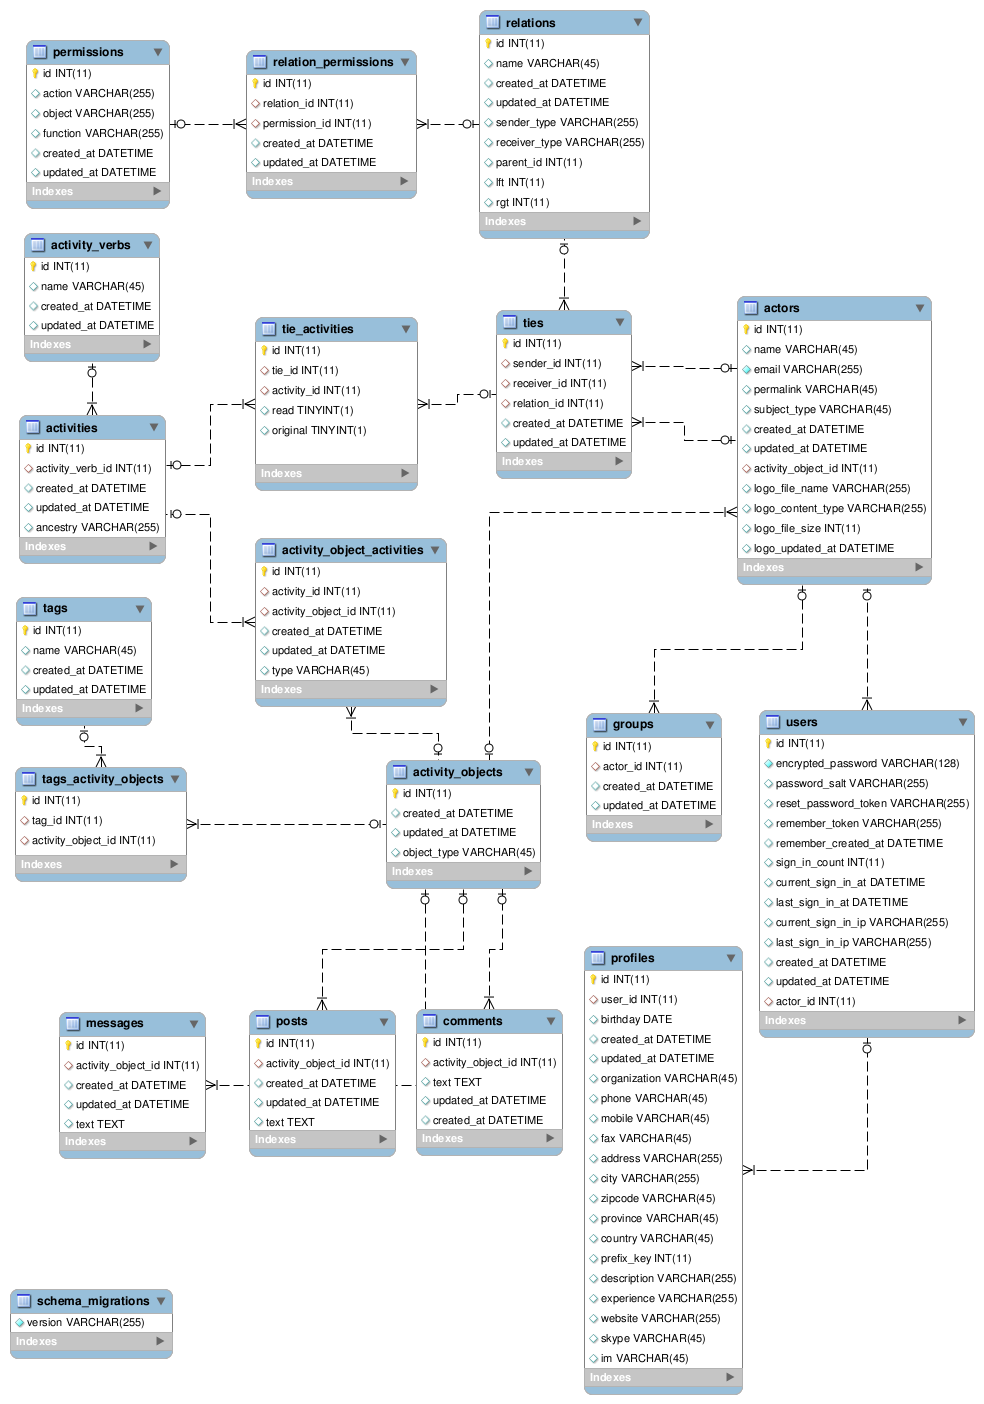
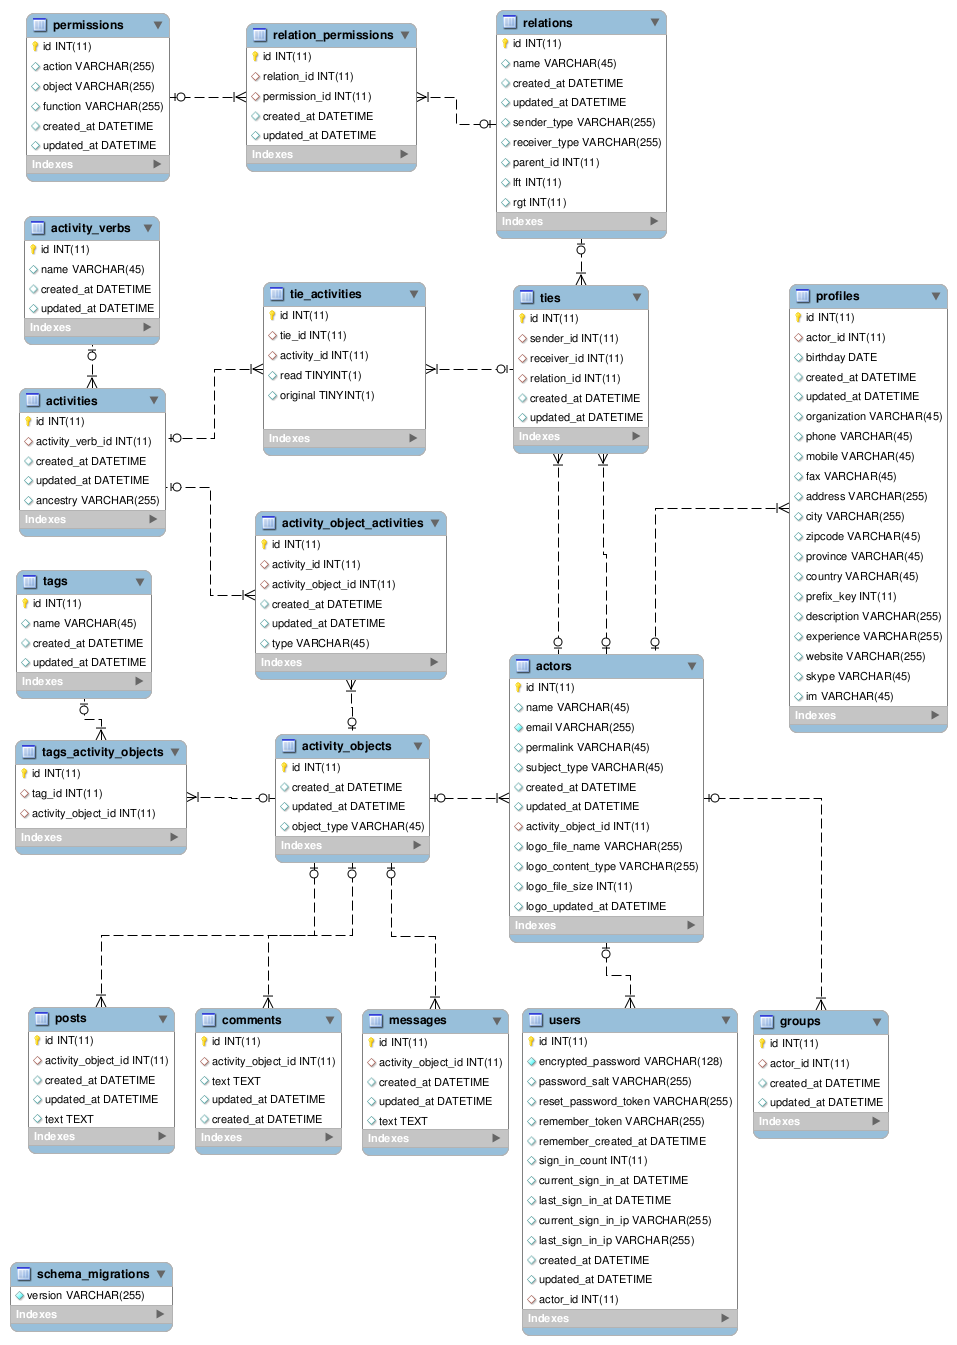
Profile from user to actor

diff --git a/app/models/user.rb b/app/models/user.rb
@@ -3,8 +3,6 @@ SocialStream.require_model 'user'
 class User
   include SocialStream::Models::Subject
 
-  has_one :profile
-
   alias_attribute :full_name, :name
   attr_accessible :full_name
 
